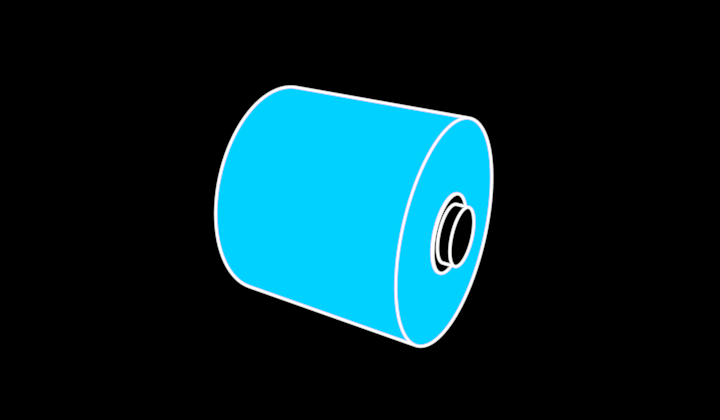
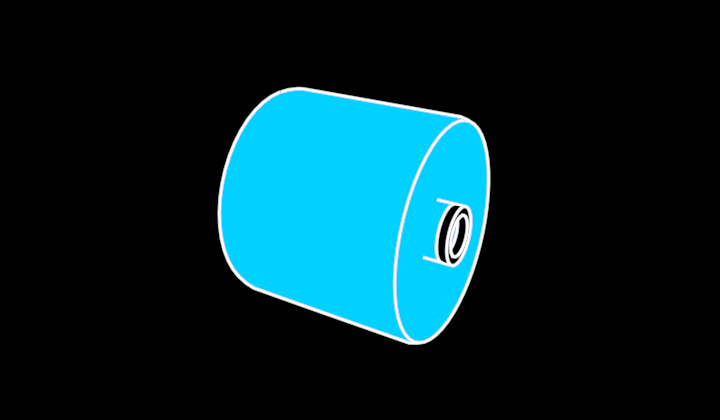
FilmReel back on the lathe (chamfered rims, a real hole, core stubs; morph's meshlines fix); Grain keeps one line slot on its symbols (a Stroke of only closed Lines is washed as one drawing — the fills went black); flowmap-grain particles at half the gap

diff --git a/core/vocabulary/FilmReel/FilmReel.ts b/core/vocabulary/FilmReel/FilmReel.ts
@@ -1,20 +1,26 @@
 import { BLACK, BLUE } from "../../src/constants"
 import { color, length } from "../../src/params"
 import type { Solid } from "../../src/geometry/hiddenline"
+import type { Mesh } from "../../src/geometry/meshes"
+import type { Vec3Like } from "../../src/parts/primitives"
 import { SolidDrawing } from "../../src/parts/soliddrawing"
 
 /**
  * A film reel, platonic — the semi-finished product: a big roll of film
- * wound on a core, lying on its side. The roll is one capped cylinder;
- * the core shows on each face as a ring and stands proud of it as a stub,
- * which is what tells a ROLL from a drum.
+ * wound on a core, lying on its side. The roll is a thick-walled ring
+ * turned on a lathe (one closed mesh, `mesh` solids in
+ * src/geometry/hiddenline.ts) whose rims are softened by a 45° chamfer —
+ * film wound tight never has a sharp edge — and whose hole shows; the
+ * cardboard core stands proud of both faces as two short tubes. The
+ * mantle's contours are smooth-surface contour generators, solved for the
+ * camera; the faces' rims and the chamfers are creases.
  *
- * Drawn as its visible 3D edges and fills (src/parts/soliddrawing.ts) —
- * a morph target, like the Truck (vocabulary/Grain, vocabulary/Morph).
+ * Drawn as its visible 3D edges and fills (src/parts/soliddrawing.ts) — a
+ * morph target, like the Truck (vocabulary/Grain, vocabulary/Morph).
  *
- * The axis runs along x, up is +y. The origin is the middle of the
- * bounding box. `width` is the roll's width (the film's), `diameter` the
- * wound roll's; the core is a fixed proportion of the diameter.
+ * The axis runs along x, up is +y. The origin is the middle of the roll.
+ * `width` is the roll's width (the film's), `diameter` the wound roll's;
+ * the core is a fixed proportion of the diameter.
  */
 export class FilmReel extends SolidDrawing {
   /** ONTOLOGY.md: a sovereign symbol — cast, not asset. */
@@ -29,24 +35,92 @@ export class FilmReel extends SolidDrawing {
   width = length(190)
 
   constructor(overrides: ConstructorParameters<typeof SolidDrawing>[0] = {}) {
-    super({ lineSlots: 24, faceSlots: 12, ...overrides })
+    super({ lineSlots: 72, faceSlots: 2, ...overrides })
   }
 
   solids(): Solid[] {
-    const R = this.diameter.value / 2
-    const W = this.width.value
-    const core = R * 0.26
-    const stub = R * 0.12
-    const body = this.body.value
-    const out: Solid[] = [
-      { kind: "cylinder", center: { x: 0, y: 0, z: 0 }, radius: R, height: W, axis: "x", fill: this.material.value },
+    const { roll, cores } = reelMeshes(this.diameter.value / 2, this.width.value)
+    return [
+      { kind: "mesh", positions: roll.positions, triangles: roll.triangles, fill: this.material.value },
+      ...cores.map((c): Solid => ({ kind: "mesh", positions: c.positions, triangles: c.triangles, fill: this.body.value })),
     ]
-    for (const side of [-1, 1]) {
-      // The core's end face (a disc thin as paint, touching the roll) and
-      // the stub standing out of it.
-      out.push({ kind: "cylinder", center: { x: side * (W / 2 + 0.5), y: 0, z: 0 }, radius: core * 1.35, height: 1, axis: "x", fill: body })
-      out.push({ kind: "cylinder", center: { x: side * (W / 2 + 1 + stub / 2), y: 0, z: 0 }, radius: core, height: stub, axis: "x", fill: body })
-    }
-    return out
   }
+}
+
+/**
+ * The reel's meshes, built once per shape and SHARED by every reel of it —
+ * hidden-line preparation and shared drawings (SolidDrawing `shareViews`)
+ * are keyed on the arrays themselves.
+ */
+const REELS = new Map<string, { roll: Mesh; cores: Mesh[] }>()
+const reelMeshes = (R: number, W: number): { roll: Mesh; cores: Mesh[] } => {
+  const key = `${R}|${W}`
+  let m = REELS.get(key)
+  if (m) return m
+  const rc = R * 0.26 // the core's outer radius = the roll's hole
+  const f = Math.min(R * 0.08, W * 0.12) // the chamfer
+  const c45 = Math.SQRT1_2
+  // A closed profile (radius, along the axis), counter-clockwise: out
+  // along one face, the chamfer, the mantle, the chamfer, in along the
+  // other face, and back through the hole.
+  const roll: [number, number][] = [
+    [rc, -W / 2],
+    [R - f, -W / 2],
+    [R - f + f * c45, -W / 2 + f - f * c45],
+    [R, -W / 2 + f],
+    [R, W / 2 - f],
+    [R - f + f * c45, W / 2 - f + f * c45],
+    [R - f, W / 2],
+    [rc, W / 2],
+  ]
+  // The core: a cardboard tube standing out of the hole on both sides (two
+  // stubs touching the faces — solids touch, never interpenetrate).
+  const stub = R * 0.1
+  const ri = rc * 0.7
+  const tube = (y0: number, y1: number): [number, number][] => [
+    [ri, y0],
+    [rc, y0],
+    [rc, y1],
+    [ri, y1],
+  ]
+  m = {
+    roll: alongX(ring(roll, 48)),
+    cores: [tube(-W / 2 - stub, -W / 2), tube(W / 2, W / 2 + stub)].map((t) => alongX(ring(t, 48))),
+  }
+  REELS.set(key, m)
+  return m
+}
+
+/** A lathe's +y axis turned onto +x (a rotation, so the winding holds). */
+const alongX = (m: Mesh): Mesh => ({
+  positions: m.positions.map((p) => ({ x: p.y, y: -p.x, z: p.z })),
+  triangles: m.triangles,
+})
+
+/**
+ * A lathe of a CLOSED profile (radius, along the axis) about +y — a ring
+ * solid, its last profile point joined back to its first, so the surface
+ * is one closed manifold (meshes.ts latheMesh is for open profiles with
+ * caps). Counter-clockwise from outside when the profile runs
+ * counter-clockwise in (radius, y), as latheMesh winds.
+ */
+const ring = (profile: readonly [number, number][], segments: number): Mesh => {
+  const positions: Vec3Like[] = []
+  const triangles: [number, number, number][] = []
+  for (const [r, y] of profile)
+    for (let j = 0; j < segments; j++) {
+      const a = (j / segments) * 2 * Math.PI
+      positions.push({ x: r * Math.cos(a), y, z: -r * Math.sin(a) })
+    }
+  const n = profile.length
+  for (let i = 0; i < n; i++) {
+    const lo = i * segments
+    const hi = ((i + 1) % n) * segments
+    for (let j = 0; j < segments; j++) {
+      const j1 = (j + 1) % segments
+      triangles.push([lo + j, lo + j1, hi + j1])
+      triangles.push([lo + j, hi + j1, hi + j])
+    }
+  }
+  return { positions, triangles }
 }

diff --git a/core/vocabulary/Grain/Grain.ts b/core/vocabulary/Grain/Grain.ts
@@ -380,7 +380,10 @@ export class Grain extends Stroke {
       const sym = symbol({
         observer,
         shareViews: VIEW_STEP,
-        lineSlots: 0,
+        // One (empty) line slot, not none: a Stroke whose parts are ALL closed
+        // Lines is washed by the host as one even-odd drawing, which would
+        // swallow the fills.
+        lineSlots: 1,
         stroke: this.stroke,
         tint: this.tint,
         fillOpacity: derive(typeFill),
@@ -402,7 +405,10 @@ export class Grain extends Stroke {
         const exact = item({
           observer,
           shareViews: VIEW_STEP,
-          lineSlots: 0,
+          // One (empty) line slot, not none: a Stroke whose parts are ALL closed
+          // Lines is washed by the host as one even-odd drawing, which would
+          // swallow the fills.
+          lineSlots: 1,
           stroke: this.stroke,
           tint: this.tint,
           fillOpacity: derive(() => phases().item.fillIn),

diff --git a/core/demo/GrainDemo.ts b/core/demo/GrainDemo.ts
@@ -269,6 +269,8 @@ export class FlowMapGrainDream extends Dream {
     radius: 300,
     // Materials are bigger than dots: sparser, so each reads as one thing.
     spacing: this.spacing(),
+    // Half the gap between particles: a flow of things, not a queue.
+    particleSize: 0.5,
     seenBy: () => this.observer,
     data: {
       ...MOCK_FLOWMAP,

diff --git a/core/vocabulary/FilmReel/README.md b/core/vocabulary/FilmReel/README.md
@@ -3,11 +3,13 @@
 ![FilmReel](FilmReel.png)
 
 A reel of film, platonic — the semi-finished product: a big roll wound on
-a core, lying on its side. The roll is one capped cylinder; the core shows
-on each face as a ring and stands proud of it as a stub, which is what
-tells a ROLL from a drum. Its contour lines are solved for the camera
-(`src/geometry/hiddenline.ts`): turn the view and they stay where the view
-ray grazes the roll.
+a core, lying on its side. The roll is a thick-walled ring turned on a
+lathe (one closed `mesh` solid) with its rims softened by a 45° chamfer —
+film wound tight never has a sharp edge — and its hole showing; the
+cardboard core stands proud of both faces as two short tubes. The mantle's
+contours are smooth-surface contour generators solved for the camera, the
+faces' rims and the chamfers creases: turn the view and the outline slides
+round the roll.
 
 ```ts
 reel = new FilmReel({ observer: this.observer, material: BLUE, width: 120 })
@@ -16,7 +18,7 @@ reel = new FilmReel({ observer: this.observer, material: BLUE, width: 120 })
 **Promoted params**: `material` (the film's colour — its category),
 `diameter` (200), `width` (190, the film's width along the axis), `body`
 (the core's fill), plus the Stroke set. Axis along x, up +y, origin at the
-centre.
+centre. Meshes are built once per shape and shared by every reel of it.
 
 **Why it exists**: the grain of knowledge (`vocabulary/Grain`) — a dot in
 the flow from extrusion to conversion becomes a reel. `/demo/?scene=materials`.
